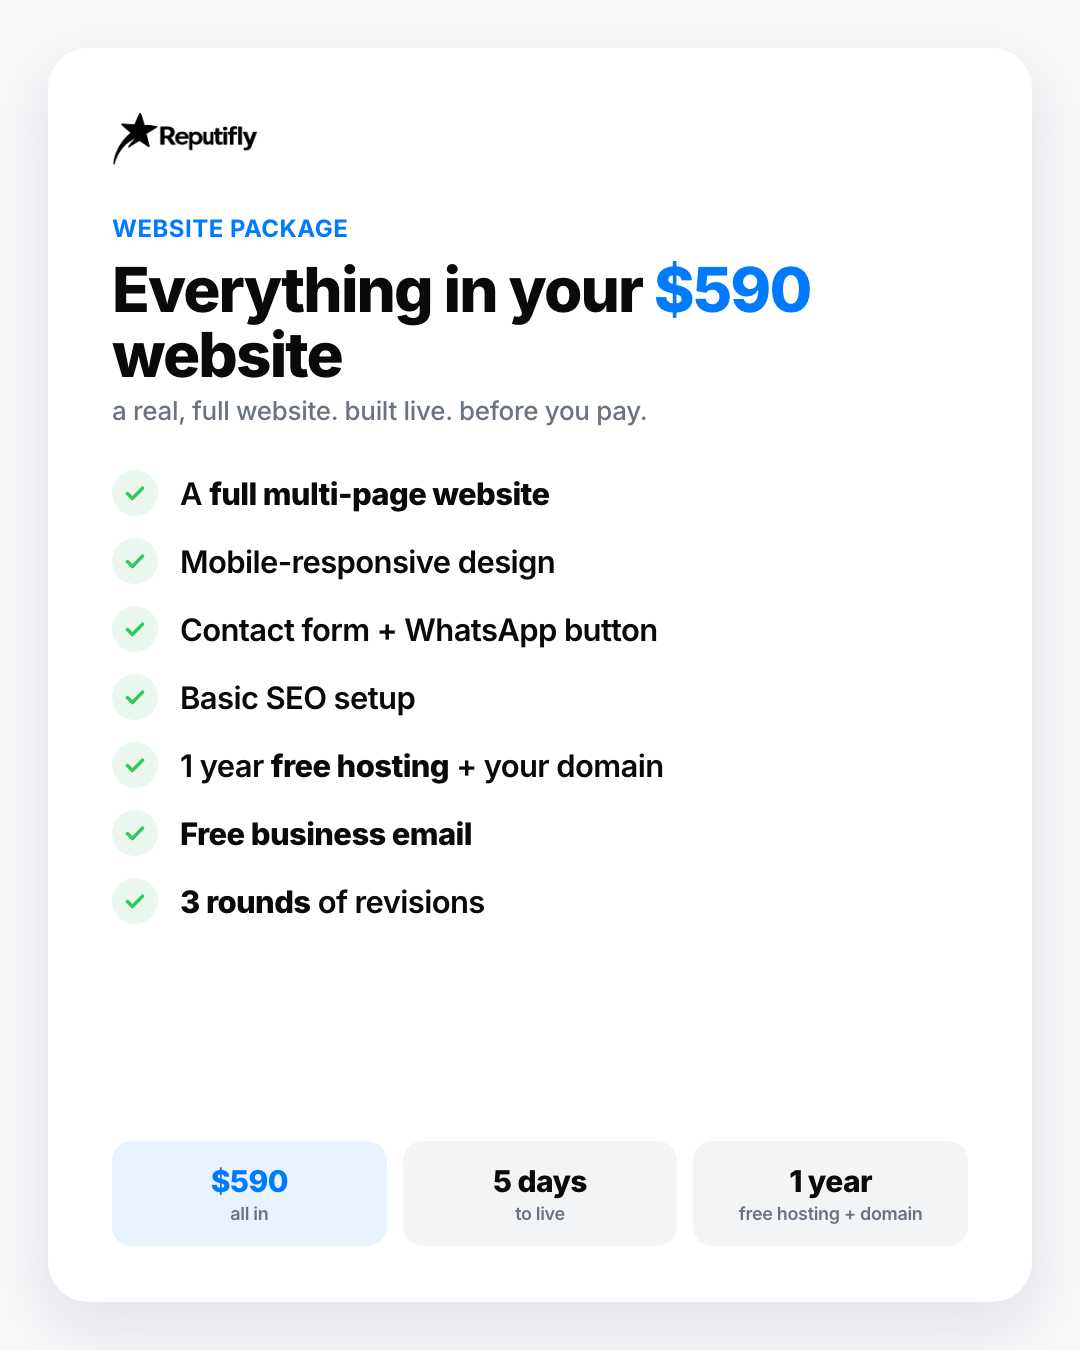
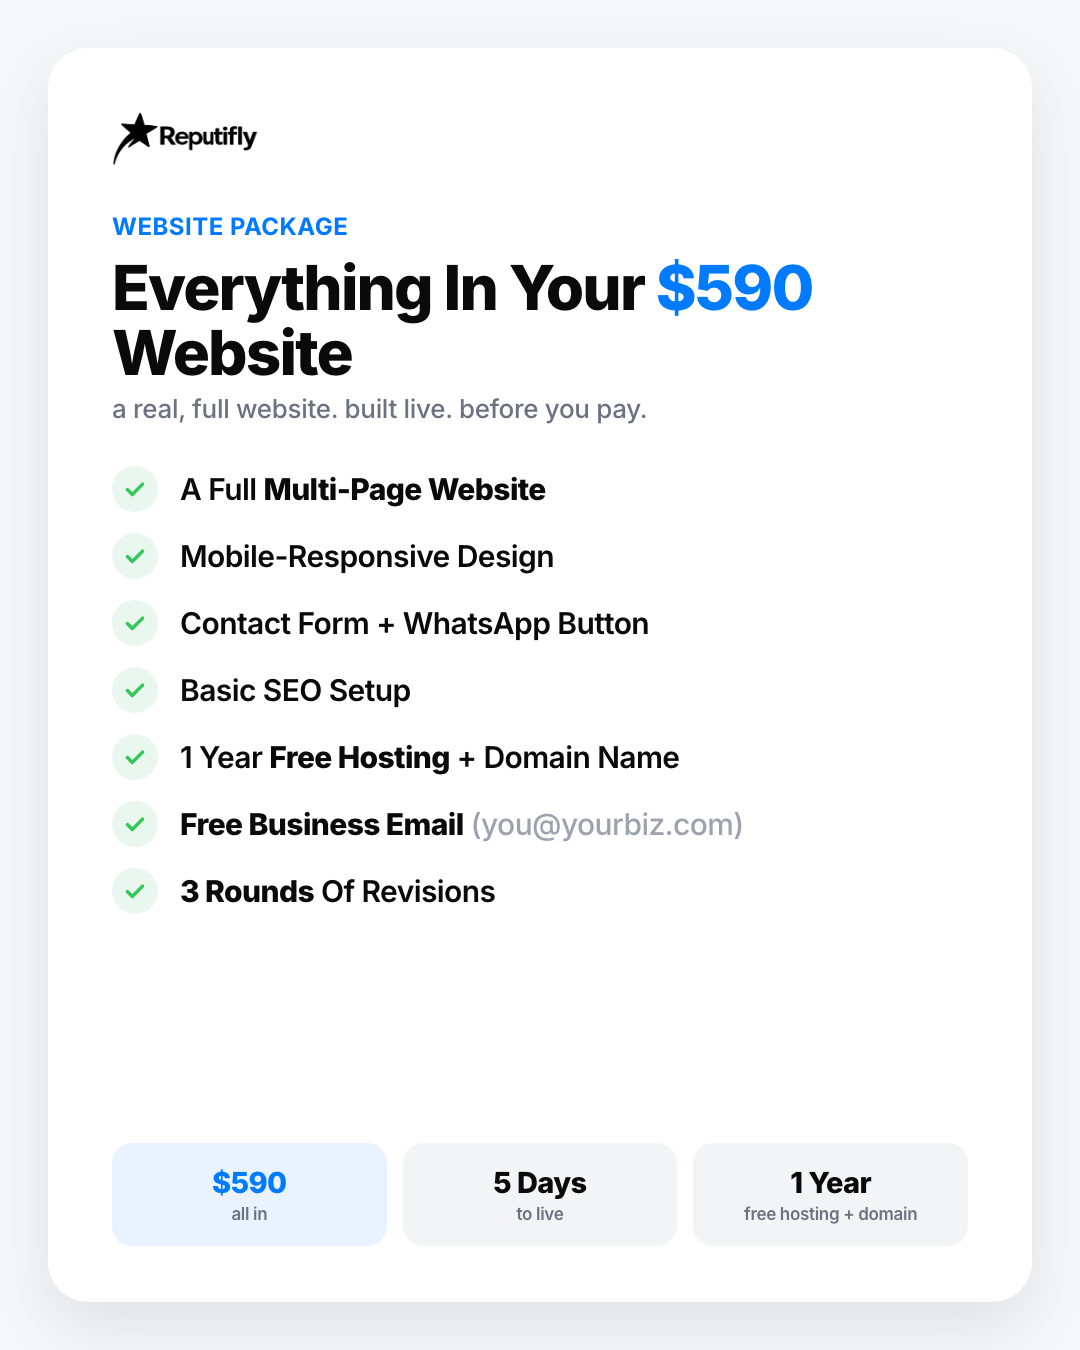
Playbook: scroll-position preserved on back, what's-included Title Case + domain name + email example + Full SEO variant

diff --git a/closer-playbook/whats-included.html b/closer-playbook/whats-included.html
@@ -5,41 +5,51 @@
 *{margin:0;box-sizing:border-box}
 body{width:1080px;height:1350px;background:#f7f8fa;font-family:"Inter",-apple-system,sans-serif;-webkit-font-smoothing:antialiased;letter-spacing:-0.02em;color:#0a0a0a;overflow:hidden}
 .card{position:absolute;inset:48px;background:#fff;border-radius:40px;box-shadow:0 24px 64px rgba(16,24,40,.10);padding:64px 64px 56px;display:flex;flex-direction:column}
-.logo{height:54px;width:auto;align-self:flex-start;margin-bottom:48px}
+.logo{height:54px;width:auto;align-self:flex-start;margin-bottom:46px}
 .kicker{font-size:24px;font-weight:700;color:#007aff;letter-spacing:.02em;text-transform:uppercase;margin-bottom:14px}
 h1{font-size:62px;font-weight:800;line-height:1.05;letter-spacing:-0.03em;margin-bottom:8px}
 h1 .price{color:#007aff}
-.sub{font-size:26px;color:#6b7280;font-weight:500;margin-bottom:44px}
-.list{display:flex;flex-direction:column;gap:22px;flex:1}
-.row{display:flex;align-items:center;gap:22px}
+.sub{font-size:26px;color:#6b7280;font-weight:500;margin-bottom:42px}
+.list{display:flex;flex-direction:column;gap:21px;flex:1}
+.row{display:flex;align-items:flex-start;gap:22px}
 .tick{width:46px;height:46px;border-radius:50%;background:#e9f7ee;display:flex;align-items:center;justify-content:center;flex-shrink:0}
 .tick svg{width:26px;height:26px}
-.row .t{font-size:31px;font-weight:600;letter-spacing:-0.02em}
+.row .t{font-size:30px;font-weight:600;letter-spacing:-0.02em;line-height:46px}
 .row .t b{font-weight:800}
-.foot{display:flex;gap:16px;margin-top:40px}
-.chip{flex:1;background:#f3f4f6;border-radius:20px;padding:22px 16px;text-align:center}
-.chip .big{font-size:30px;font-weight:800;color:#0a0a0a;letter-spacing:-0.02em}
+.row .t .eg{font-weight:500;color:#9ca3af}
+.foot{display:flex;gap:16px;margin-top:38px}
+.chip{flex:1;background:#f3f4f6;border-radius:20px;padding:22px 14px;text-align:center}
+.chip .big{font-size:29px;font-weight:800;color:#0a0a0a;letter-spacing:-0.02em}
 .chip.blue{background:#e9f2ff}.chip.blue .big{color:#007aff}
-.chip .sm{font-size:18px;font-weight:600;color:#6b7280;margin-top:4px}
+.chip .sm{font-size:17px;font-weight:600;color:#6b7280;margin-top:4px}
 </style></head>
 <body><div class="card">
 <img class="logo" src="reputifly-logo.png"/>
 <div class="kicker">Website Package</div>
-<h1>Everything in your <span class="price">$590</span> website</h1>
+<h1>Everything In Your <span class="price">$590</span> Website</h1>
 <div class="sub">a real, full website. built live. before you pay.</div>
 <div class="list" id="list"></div>
 <div class="foot">
   <div class="chip blue"><div class="big">$590</div><div class="sm">all in</div></div>
-  <div class="chip"><div class="big">5 days</div><div class="sm">to live</div></div>
-  <div class="chip"><div class="big">1 year</div><div class="sm">free hosting + domain</div></div>
+  <div class="chip"><div class="big">5 Days</div><div class="sm">to live</div></div>
+  <div class="chip"><div class="big">1 Year</div><div class="sm">free hosting + domain</div></div>
 </div>
 </div>
 <script>
-var items=["A full multi-page website","Mobile-responsive design","Contact form + WhatsApp button","Basic SEO setup","1 year free hosting + your domain","Free business email","3 rounds of revisions"];
+var full=new URLSearchParams(location.search).get("seo")==="full";
+var items=[
+  "A Full *Multi-Page Website*",
+  "Mobile-Responsive Design",
+  "Contact Form + WhatsApp Button",
+  full ? "*Full SEO Setup*" : "Basic SEO Setup",
+  "1 Year *Free Hosting* + Domain Name",
+  "*Free Business Email* §([email redacted])§",
+  "*3 Rounds* Of Revisions"
+];
 var tick='<svg viewBox="0 0 24 24" fill="none"><path d="M5 12.5l4.5 4.5L19 7.5" stroke="#34c759" stroke-width="3.2" stroke-linecap="round" stroke-linejoin="round"/></svg>';
 document.getElementById("list").innerHTML=items.map(function(t){
-  var html=t.replace(/(full multi-page website|free hosting|Free business email|3 rounds)/i,"<b>$1</b>");
-  return '<div class="row"><div class="tick">'+tick+'</div><div class="t">'+html+'</div></div>';
+  var h=t.replace(/\*([^*]+)\*/g,"<b>$1</b>").replace(/§([^§]+)§/g,'<span class="eg">$1</span>');
+  return '<div class="row"><div class="tick">'+tick+'</div><div class="t">'+h+'</div></div>';
 }).join("");
 </script>
 </body></html>

diff --git a/closer-playbook/index.html b/closer-playbook/index.html
@@ -339,7 +339,7 @@ var RED_LINES=[
 ];
 
 var sidescroll=document.getElementById("sidescroll"),detail=document.getElementById("detail");
-var curScripts=[],curId=null;
+var curScripts=[],curId=null,listScroll=0;
 
 function esc(s){return String(s).replace(/&/g,"&amp;").replace(/</g,"&lt;").replace(/>/g,"&gt;");}
 function waFmt(s){
@@ -372,6 +372,7 @@ function renderWelcome(){
 
 function selectNode(id){
   var n=NODES[id];if(!n)return;
+  if(!document.body.classList.contains("viewing"))listScroll=window.scrollY;
   curId=id;curScripts=(n.scripts||[]).map(function(s){return s.t;});
   var h='<div class="inner rf-fade-in">';
   h+='<button class="backbtn" data-act="back"><svg width="16" height="16" viewBox="0 0 24 24" fill="none"><path d="M15 6l-6 6 6 6" stroke="currentColor" stroke-width="2" stroke-linecap="round" stroke-linejoin="round"/></svg>All situations</button>';
@@ -407,10 +408,12 @@ function selectNode(id){
   h+='</div>';
   detail.innerHTML=h;detail.scrollTop=0;
   document.body.classList.add("viewing");
-  renderSidebar(document.getElementById("search").value);
+  setActive(id);window.scrollTo(0,0);
 }
 
-function back(){document.body.classList.remove("viewing");}
+function setActive(id){var rows=sidescroll.querySelectorAll(".srow");for(var i=0;i<rows.length;i++)rows[i].classList.toggle("active",rows[i].getAttribute("data-go")===id);}
+
+function back(){document.body.classList.remove("viewing");window.scrollTo(0,listScroll);}
 
 function doCopy(i,btn){
   var raw=curScripts[i];if(raw==null)return;